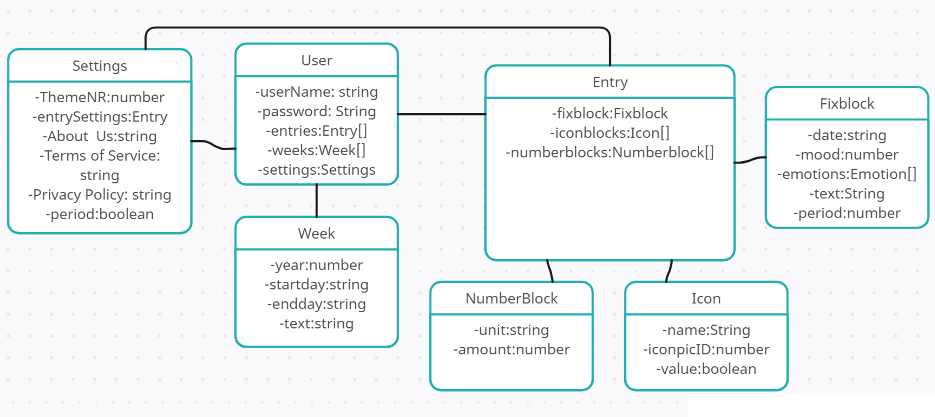
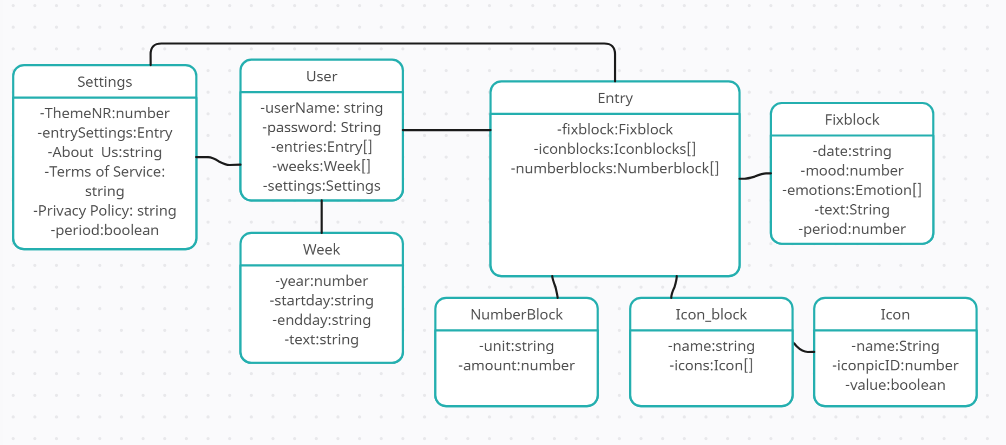
changed class diagramm

Changed region(s): [[0.0, 0.0624, 1.0, 0.9664]]

diff --git a/backend/interfaces/entry.ts b/backend/interfaces/entry.ts
@@ -1,6 +1,6 @@
 interface Entry {
     fixed_blocks: FixedBlocks;
-    icons:Icon[];
+    icon_blocks:IconBlock[];
     number_blocks: NumberBlock[];
 }
 interface FixedBlocks {
@@ -9,6 +9,10 @@ interface FixedBlocks {
     emotions: Emotions;
     text: string;
     period: number;//0.. not tracking period, 1.. period, 2.. no period, 3.. predicted period
+}
+interface IconBlock{
+    name:string;
+    icons:Icon[];
 }
 interface Icon{
     name: string;
